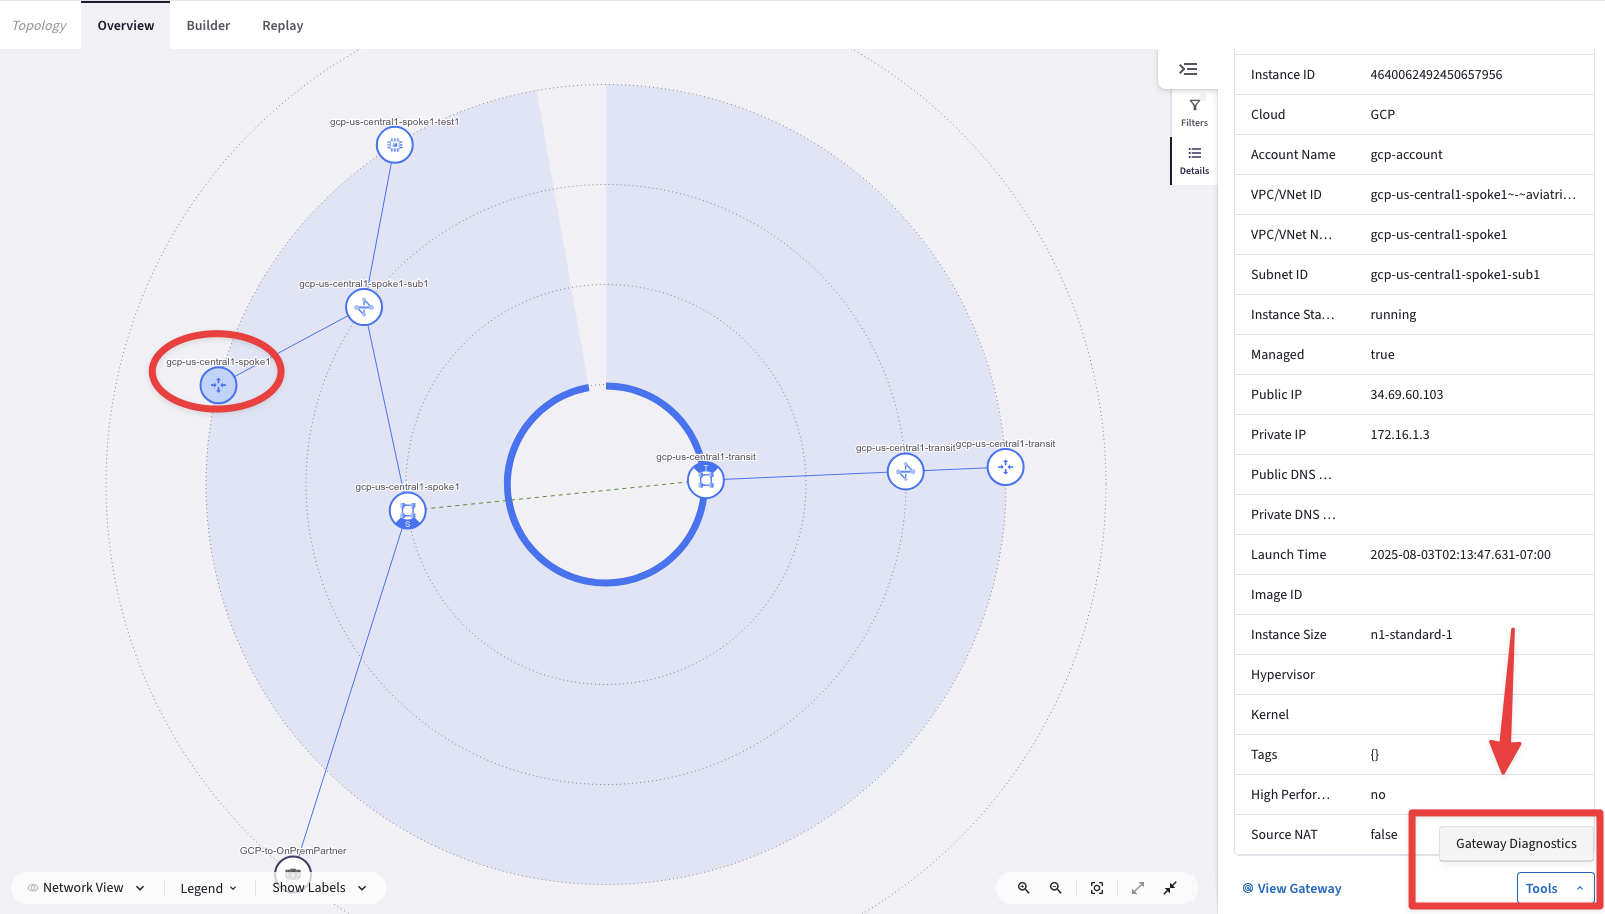
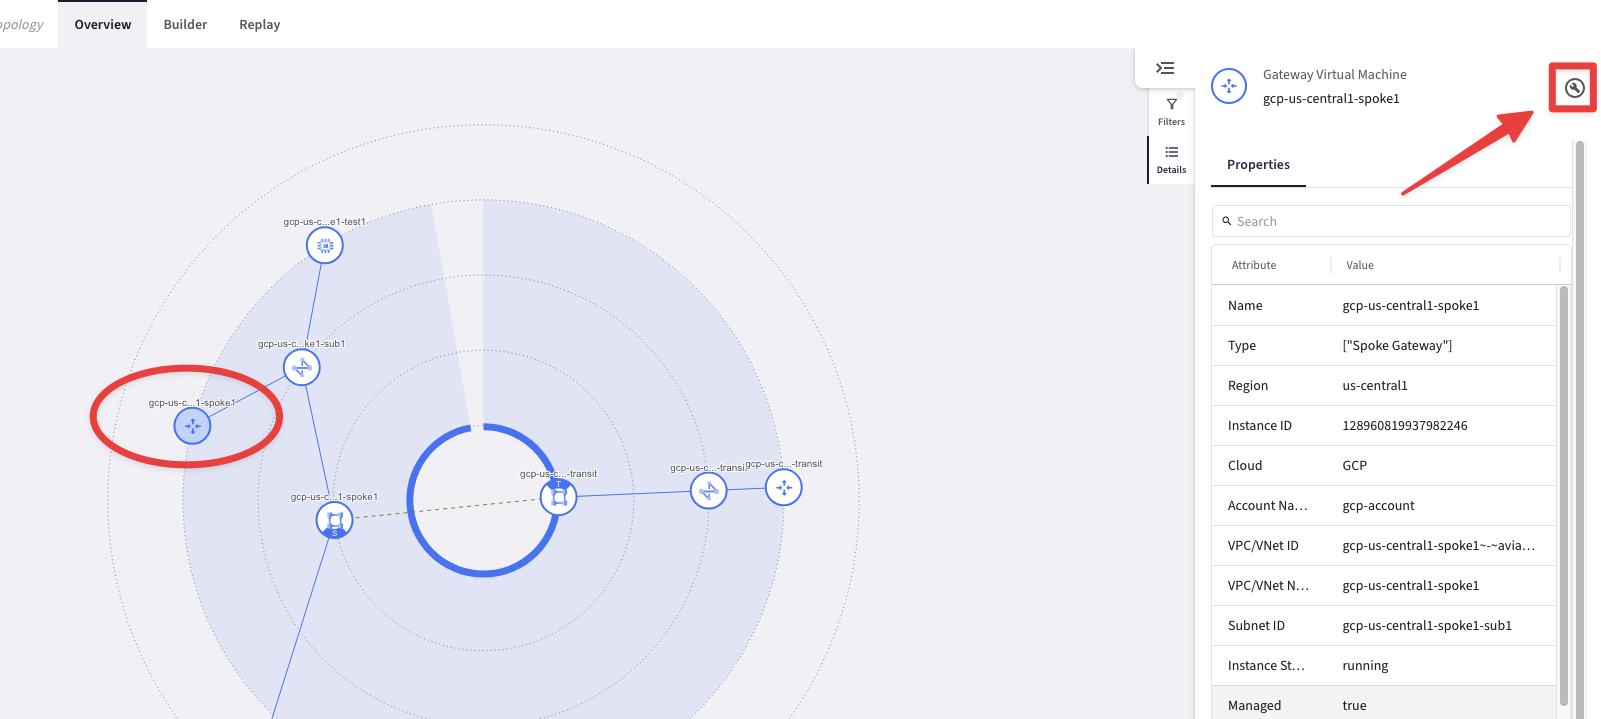
update for pro

diff --git a/ace_pro/docs/lab7.md b/ace_pro/docs/lab7.md
@@ -466,7 +466,8 @@ Ping ok
 
 ## 7. Gateway Diagnostics
 
-Navigate to **CoPilot > Cloud Fabric > Topology > Overview (default TAB)** and click on the icon of the Spoke Gateway **_gcp-us-central1-spoke1_**. Scroll through the Properties window to the bottom, locate the the `Tools` button and then click on `Gateway Diagnostics`.
+Navigate to **CoPilot > Cloud Fabric > Topology > Overview (default TAB)**.
+Click the Spoke Gateway **_gcp-us-central1-spoke1_** icon, then the `wrench icon` in the **Properties** window to open the `Diagnostics Tools` for that gateway.
 
 ```{figure} images/lab8-diag.png
 ---
